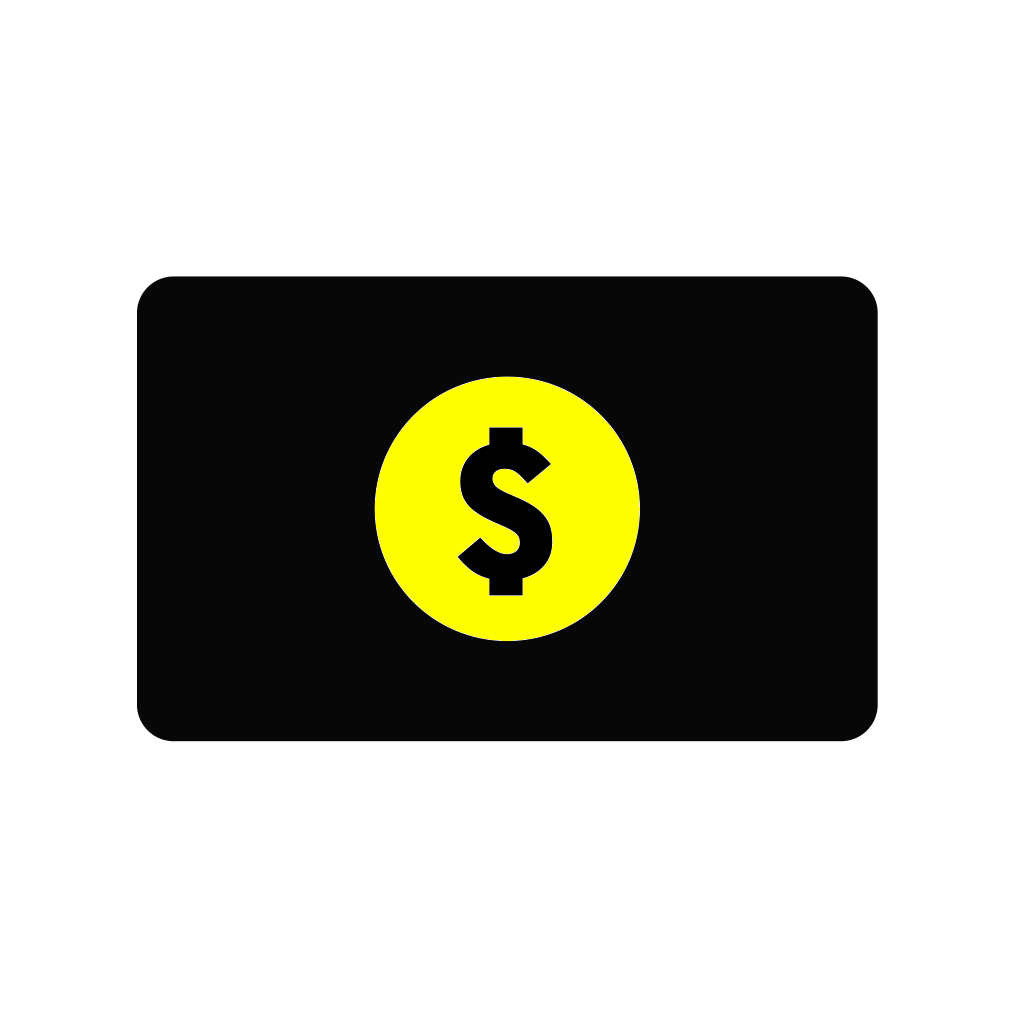
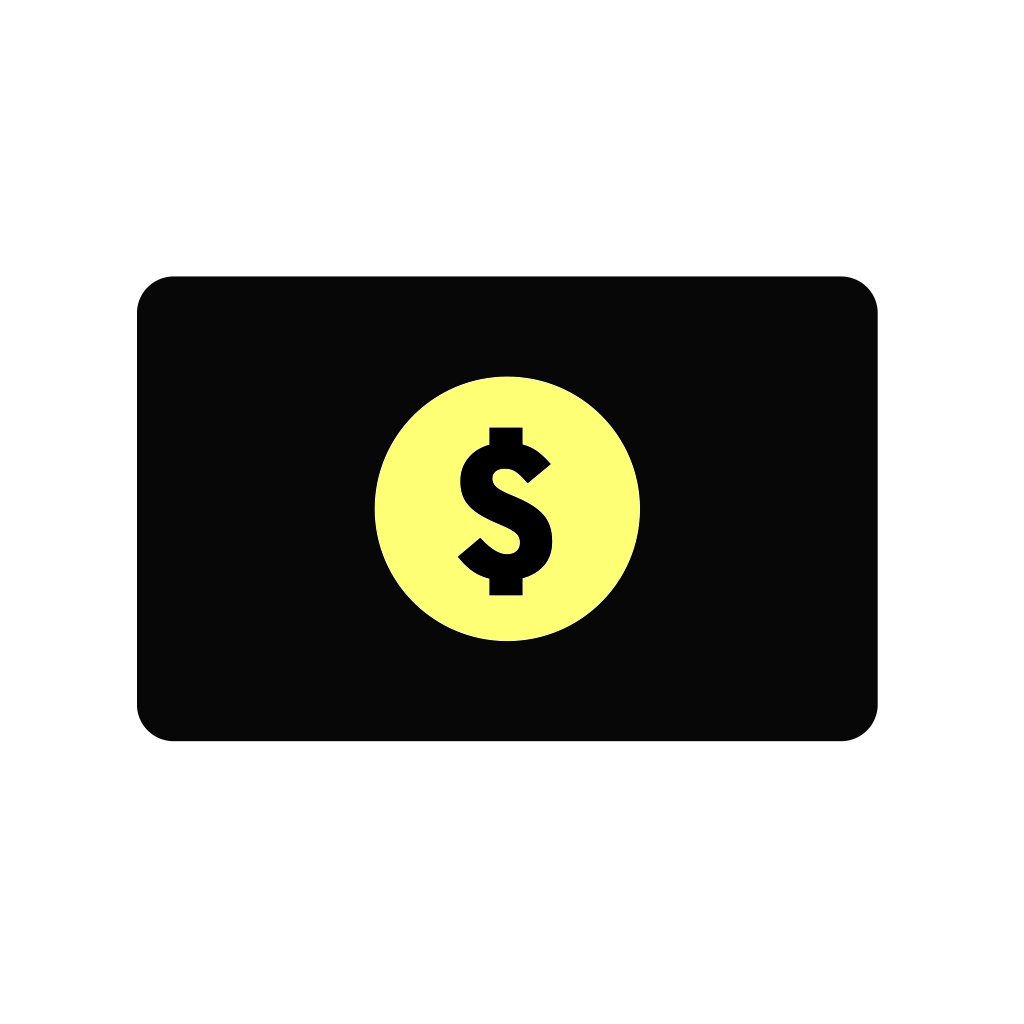
completed remote dynamics for main page

Changed region(s): [[0.3438, 0.3438, 0.625, 0.625]]

diff --git a/js/imf.js b/js/imf.js
@@ -13,12 +13,65 @@ var sessionManager = {
     view: null,
     mode: null,
     pageMatrix: null,
-    selectionMatrix: [
-        [{top: '1%', left: '1%'}, {top: '1%', left: '60%'}, {top: '1%', left: '65%'}, {top: '1%', left: '70%'}],
-        [{top: '5%', left: '1%'}, {top: '5%', left: '60%'}, {top: '5%', left: '65%'}, {top: '5%', left: '70%'}],
+    selectionMatrix: null,
+    calculateSelectionMatrix: function(){
+        var currentlyOn = this.page;
+        var currentMatrix = null;
+        switch(currentlyOn){
+            case 'home':
+                var logo = $('#logo-container').offset();
+                var catalog = $('#catalog-option').offset();
+                var order = $('#order-option').offset();
+                var contact = $('#contact-option').offset();
+                var footerOff = $('#footer').offset()
+                var footerWidth = $('#footer').width();
+                var xpos = footerOff.left + footerWidth/2 - 50;
+                var ypos =  footerOff.top -  50;
+                
+                currentMatrix = [
+                [{top: logo.top, left: logo.left}, {top: order.top, left: order.left}, {top: catalog.top, left: catalog.left}, {top: contact.top, left: contact.left}],
+        [{top: $('#get-cash-option').offset().top, left: $('#get-cash-option').offset().left}, {top: $('#get-internet-option').offset().top, left: $('#get-internet-option').offset().left}, {top: $('#get-snacks-option').offset().top, left: $('#get-snacks-option').offset().left}, {top: $('#get-rides-option').offset().top, left: $('#get-rides-option').offset().left}],
+        [{top: ypos, left: xpos}, {top: ypos, left: xpos}, {top: ypos, left: xpos}, {top: ypos, left: xpos}],
+                    ];
+                break;
+            case 'order':
+                var $this = $('#logo-container');
+                var offset = $this.offset();
+      
+                currentMatrix = [
+                [{top: offset.top, left: logo.left}, {top: '5%', left: '60%'}, {top: '5%', left: '71%'}, {top: '5%', left: '82%'}],
+        [{top: '40%', left: '40%'}, {top: '40%', left: '50%'}, {top: '40%', left: '60%'}, {top: '40%', left: '70%'}],
         [{top: '10%', left: '1%'}, {top: '10%', left: '60%'}, {top: '10%', left: '65%'}, {top: '10%', left: '70%'}],
         [{top: '15%', left: '1%'}, {top: '15%', left: '60%'}, {top: '15%', left: '65%'}, {top: '15%', left: '70%'}],
-    ]
+                    ];
+                break;
+            case 'catalog':
+                currentMatrix = [
+                [{top: logo.top, left: logo.left}, {top: '5%', left: '60%'}, {top: '5%', left: '71%'}, {top: '5%', left: '82%'}],
+        [{top: '40%', left: '40%'}, {top: '40%', left: '50%'}, {top: '40%', left: '60%'}, {top: '40%', left: '70%'}],
+        [{top: '10%', left: '1%'}, {top: '10%', left: '60%'}, {top: '10%', left: '65%'}, {top: '10%', left: '70%'}],
+        [{top: '15%', left: '1%'}, {top: '15%', left: '60%'}, {top: '15%', left: '65%'}, {top: '15%', left: '70%'}],
+                    ];
+                break;
+            case 'contact':
+                currentMatrix = [
+                [{top: logo.top, left: logo.left}, {top: '5%', left: '60%'}, {top: '5%', left: '71%'}, {top: '5%', left: '82%'}],
+        [{top: '40%', left: '40%'}, {top: '40%', left: '50%'}, {top: '40%', left: '60%'}, {top: '40%', left: '70%'}],
+        [{top: '10%', left: '1%'}, {top: '10%', left: '60%'}, {top: '10%', left: '65%'}, {top: '10%', left: '70%'}],
+        [{top: '15%', left: '1%'}, {top: '15%', left: '60%'}, {top: '15%', left: '65%'}, {top: '15%', left: '70%'}],
+                    ];
+                break;
+            default:
+                currentMatrix = [
+                    [null, null, null, null],
+                    [null, null, null, null],
+                    [null, null, null, null],
+                    [null, null, null, null],
+                ];
+                break;
+        }
+        this.selectionMatrix = currentMatrix;
+    }
 };
 
 function openOrderPage(){
@@ -54,8 +107,7 @@ function loadMediaItem(i){
     var markup = `<div id='media-content-preview-${item.number}' class='media-content-preview-panel' style='background-image: ${item.bgi}; background-size: ${item.bgs}; background-position: ${item.bgp}; background-repeat: ${item.bgr}'>
                 <div id='media-content-title-${item.number}' class='media-content-title'>${item.title}</div>
                 <div id='media-rating-${item.number}' class='media-rating'>${item.rating}</div>
-            </div>;
-</div>`;
+            </div>`;
     
     sessionManager.content.available.push(item.title);
 
@@ -89,11 +141,16 @@ document.addEventListener('DOMContentLoaded', function(){
         var directionalY = data.position.y;
         sessionManager.pageMatrix = matrix;
         
+        sessionManager.calculateSelectionMatrix();
+        
         var setting = sessionManager.selectionMatrix[directionalY][directionalX];
-        $('#currently-selected-item-overlay').css({
-            top: setting.top,
-            left: setting.left
-        });
+        $('#currently-selected-item-overlay').css(setting);
+    });
+    
+    sessionManager.connection.on('showRemoteSelectionOverlay', function(data){
+        $('#currently-selected-item-overlay').show().animate({
+            opacity: 1.0
+        }, 1000);
     });
     
     loadContentFromDatabase();

diff --git a/views/remote.html b/views/remote.html
@@ -29,25 +29,25 @@
             connection: null,
             deviceType: null,
             view: null,
-            mode: null
+            mode: null,
+            onPage: {
+                name: null,
+                maxLevel: null
+            }
         };
         
         document.addEventListener('DOMContentLoaded', function(){
             sessionManager.connection = io.connect(location.host);    
             
-            sessionManager.connection.on('loadDeviceType', function(data){
-                var type = data.type;
-                sessionManager.deviceType = type;
-                
-                if(type=='desktop'){
-                    console.log('TODO: verify whether user is on snack shack main or using remote by waiting for remote tap trigger; if a remote tap is initiated then the view is in developer mode and the program shold record it as a desktop view of the remote for developers purposes');
-                }
-                else if(type=='mobile'){
-                    
-                    sessionManager.view = 'remote';
-                    sessionManager.mode = 'beta\dev\rel';
-                    
-                }
+            sessionManager.connection.on('confirmRemoteConnection', function(data){
+                var status = data.status;
+                sessionManager.deviceType = 'mobile';   
+                sessionManager.view = 'remote';
+                sessionManager.mode = 'beta\dev\rel';
+                sessionManager.onPage = data.onPage;
+                console.log('House of Venus REmote v. 0.2.0\n-------\n\nauthor: Patrice-Morgan Ongoly \n ---');
+                console.log(data.onPage.name);
+                console.log(data.onPage.maxLevel);
             });
             
             $('#launch-overlay-container').click(function(){
@@ -85,7 +85,7 @@
                 var direction = dpad_id.substring(0, dpad_id.indexOf('-'));
                 console.log(dpad_id);
                 console.log(`go ${dpad_id}`);
-                sessionManager.connection.emit('dpadEvent', {direction: direction});
+                sessionManager.connection.emit('dpadEvent', {direction: direction, maxLevel: sessionManager.onPage.maxLevel});
             });
         });
     </script>

diff --git a/app.js b/app.js
@@ -191,7 +191,8 @@ io.sockets.on('connection', function(socket){
         console.log(`remote connected? ${systemLogic.remoteConnected}`);
         console.log(systemLogic.remoteList);
         console.log(`main screen connected? ${systemLogic.mainScreenConnected}`);
-        socket.emit('confirmRemoteConnection', {status: true});
+        socket.emit('confirmRemoteConnection', {status: true, onPage: {name: 'home', maxLevel: {x: 3, y: 2}}});
+        systemLogic.mainScreen.connection.emit('showRemoteSelectionOverlay', {status: true});
     });
     
     socket.on('connectMainScreen', function(data){
@@ -253,6 +254,7 @@ io.sockets.on('connection', function(socket){
         //console.log('-------------------------------------');
         //console.log(systemLogic.remoteList);//ush({type: 'mobile' , address: ip, connection: socket});
         var direction = data.direction;
+        var max = data.maxLevel;
         remotePageMatrix[systemLogic.pos.y][systemLogic.pos.x]= 0;
         switch(direction){
             case 'up':
@@ -261,7 +263,7 @@ io.sockets.on('connection', function(socket){
                 }
                 break;
             case 'down':
-                if(systemLogic.pos.y<3){
+                if(systemLogic.pos.y<max.y){
                     systemLogic.pos.y++;
                 }
                 break;
@@ -271,7 +273,7 @@ io.sockets.on('connection', function(socket){
                 }
                 break;
             case 'right':
-                if(systemLogic.pos.x<3){
+                if(systemLogic.pos.x<max.x){
                     systemLogic.pos.x++;
                 }
                 break;

diff --git a/css/pARk.css b/css/pARk.css
@@ -17,6 +17,7 @@ body, html{
     top: 10%;
     right: 5%;
     width: 300px;
+    height: 100px;
     color: black;
     font-size: 1.2em;
     font-family: 'IBM Plex Sans', sans-serif;
@@ -27,6 +28,8 @@ body, html{
     height: 100%;
     width: 30%;
     text-align: center;
+    line-height: 100px;
+    vertical-align: middle;
     text-transform: lowercase;
     font-weight: 400;
     cursor: pointer;
@@ -321,7 +324,7 @@ body, html{
     font-size: 110%;
     border-radius: 5px;
     border: 1px black solid;
-    background-color: yellow;
+    background-color: rgba(254, 255, 117, 1.0);
     color: black;
     cursor: pointer;
 }
@@ -566,13 +569,15 @@ input[type=button]:focus{
 }
 
 #currently-selected-item-overlay{
+    display: none;
+    opacity: 0;
     z-index: 300;
-    width: 150px;
-    height: 150px;
+    width: 120px;
+    height: 120px;
     border-radius: 50%;
     position: absolute;
-    top: 2%;
-    left: 2%;
+    top: 3%;
+    left: 6%;
     border: 3px white solid;
     background-color: rgba(255, 255, 255, 0.4);
 }
